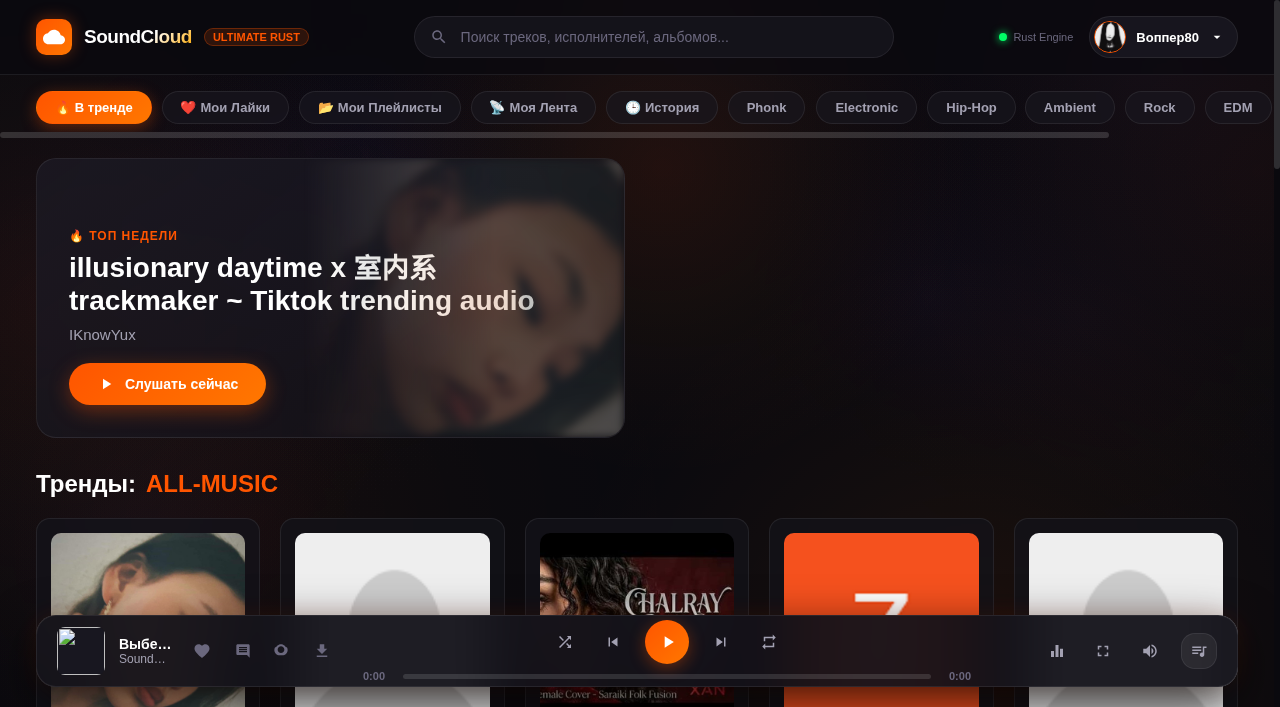
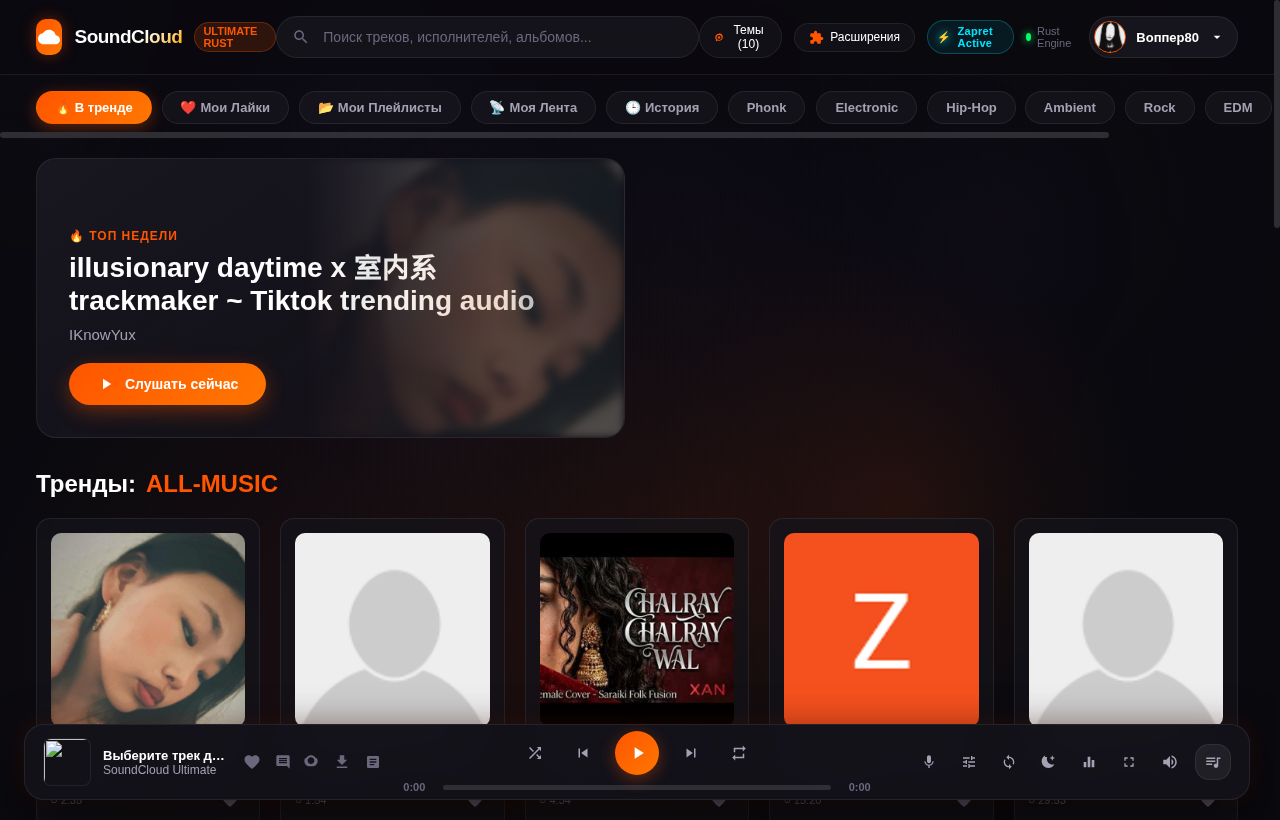
fix: improve player dock responsiveness, add new screenshots, and update gallery

diff --git a/desktop/frontend/index.html b/desktop/frontend/index.html
@@ -142,26 +142,28 @@
             <div class="dock-title" id="player-title">Выберите трек для воспроизведения</div>
             <div class="dock-artist" id="player-artist" style="cursor: pointer;">SoundCloud Ultimate</div>
           </div>
-          <!-- Real Like Button in Player -->
-          <button class="like-btn" id="dock-like-btn" title="Добавить в любимые (L)">
-            <svg viewBox="0 0 24 24"><path d="M12 21.35l-1.45-1.32C5.4 15.36 2 12.28 2 8.5 2 5.42 4.42 3 7.5 3c1.74 0 3.41.81 4.5 2.09C13.09 3.81 14.76 3 16.5 3 19.58 3 22 5.42 22 8.5c0 3.78-3.4 6.86-8.55 11.54L12 21.35z"/></svg>
-          </button>
-          <!-- Comments Button in Player -->
-          <button class="action-icon-btn" id="dock-comments-btn" title="Комментарии трека (C)">
-            <svg viewBox="0 0 24 24"><path d="M21.99 4c0-1.1-.89-2-1.99-2H4c-1.1 0-2 .9-2 2v12c0 1.1.9 2 2 2h14l4 4-.01-18zM18 14H6v-2h12v2zm0-3H6V9h12v2zm0-3H6V6h12v2z"/></svg>
-          </button>
-          <!-- Related Radio Button in Player -->
-          <button class="action-icon-btn" id="dock-radio-btn" title="Радио трека (Станция)">
-            <svg viewBox="0 0 24 24"><path d="M3.24 6.15C2.51 7.43 2 8.94 2 10.55c0 4.41 3.59 8 8 8 2.08 0 3.97-.79 5.4-2.1l-1.43-1.43C12.83 15.68 11.48 16.2 10 16.2c-3.12 0-5.65-2.53-5.65-5.65 0-1.19.38-2.3 1.03-3.21L3.24 6.15zM20.76 6.15l-2.14 1.19c.65.91 1.03 2.02 1.03 3.21 0 3.12-2.53 5.65-5.65 5.65-1.48 0-2.83-.52-3.97-1.18l-1.43 1.43C10.03 17.76 11.92 18.55 14 18.55c4.41 0 8-3.59 8-8 0-1.61-.51-3.12-1.24-4.4zM12 2C7.58 2 4 5.58 4 10s3.58 8 8 8 8-3.58 8-8-3.58-8-8-8zm0 13c-2.76 0-5-2.24-5-5s2.24-5 5-5 5 2.24 5 5-2.24 5-5 5z"/></svg>
-          </button>
-          <!-- Download Button in Player -->
-          <button class="download-btn" id="dock-download-btn" title="Скачать трек в MP3 (D)">
-            <svg viewBox="0 0 24 24"><path d="M19 9h-4V3H9v6H5l7 7 7-7zM5 18v2h14v-2H5z"/></svg>
-          </button>
-          <!-- Social Bento Card Button in Player -->
-          <button class="action-icon-btn" id="dock-card-btn" title="Создать карточку трека для соцсетей">
-            <svg viewBox="0 0 24 24"><path d="M19 3H5c-1.1 0-2 .9-2 2v14c0 1.1.9 2 2 2h14c1.1 0 2-.9 2-2V5c0-1.1-.9-2-2-2zm-5 14H7v-2h7v2zm3-4H7v-2h10v2zm0-4H7V7h10v2z"/></svg>
-          </button>
+          <div class="dock-left-actions">
+            <!-- Real Like Button in Player -->
+            <button class="like-btn" id="dock-like-btn" title="Добавить в любимые (L)">
+              <svg viewBox="0 0 24 24"><path d="M12 21.35l-1.45-1.32C5.4 15.36 2 12.28 2 8.5 2 5.42 4.42 3 7.5 3c1.74 0 3.41.81 4.5 2.09C13.09 3.81 14.76 3 16.5 3 19.58 3 22 5.42 22 8.5c0 3.78-3.4 6.86-8.55 11.54L12 21.35z"/></svg>
+            </button>
+            <!-- Comments Button in Player -->
+            <button class="action-icon-btn" id="dock-comments-btn" title="Комментарии трека (C)">
+              <svg viewBox="0 0 24 24"><path d="M21.99 4c0-1.1-.89-2-1.99-2H4c-1.1 0-2 .9-2 2v12c0 1.1.9 2 2 2h14l4 4-.01-18zM18 14H6v-2h12v2zm0-3H6V9h12v2zm0-3H6V6h12v2z"/></svg>
+            </button>
+            <!-- Related Radio Button in Player -->
+            <button class="action-icon-btn" id="dock-radio-btn" title="Радио трека (Станция)">
+              <svg viewBox="0 0 24 24"><path d="M3.24 6.15C2.51 7.43 2 8.94 2 10.55c0 4.41 3.59 8 8 8 2.08 0 3.97-.79 5.4-2.1l-1.43-1.43C12.83 15.68 11.48 16.2 10 16.2c-3.12 0-5.65-2.53-5.65-5.65 0-1.19.38-2.3 1.03-3.21L3.24 6.15zM20.76 6.15l-2.14 1.19c.65.91 1.03 2.02 1.03 3.21 0 3.12-2.53 5.65-5.65 5.65-1.48 0-2.83-.52-3.97-1.18l-1.43 1.43C10.03 17.76 11.92 18.55 14 18.55c4.41 0 8-3.59 8-8 0-1.61-.51-3.12-1.24-4.4zM12 2C7.58 2 4 5.58 4 10s3.58 8 8 8 8-3.58 8-8-3.58-8-8-8zm0 13c-2.76 0-5-2.24-5-5s2.24-5 5-5 5 2.24 5 5-2.24 5-5 5z"/></svg>
+            </button>
+            <!-- Download Button in Player -->
+            <button class="download-btn" id="dock-download-btn" title="Скачать трек в MP3 (D)">
+              <svg viewBox="0 0 24 24"><path d="M19 9h-4V3H9v6H5l7 7 7-7zM5 18v2h14v-2H5z"/></svg>
+            </button>
+            <!-- Social Bento Card Button in Player -->
+            <button class="action-icon-btn" id="dock-card-btn" title="Создать карточку трека для соцсетей">
+              <svg viewBox="0 0 24 24"><path d="M19 3H5c-1.1 0-2 .9-2 2v14c0 1.1.9 2 2 2h14c1.1 0 2-.9 2-2V5c0-1.1-.9-2-2-2zm-5 14H7v-2h7v2zm3-4H7v-2h10v2zm0-4H7V7h10v2z"/></svg>
+            </button>
+          </div>
         </div>
 
         <!-- Center: Controls & Scrubber -->

diff --git a/desktop/frontend/style.css b/desktop/frontend/style.css
@@ -458,9 +458,9 @@ body {
 
 .player-dock {
   pointer-events: auto;
-  width: calc(100% - 72px);
-  max-width: 1240px;
-  height: 72px;
+  width: calc(100% - 48px);
+  max-width: 1380px;
+  height: 76px;
   background: var(--surface-dock);
   backdrop-filter: blur(28px);
   -webkit-backdrop-filter: blur(28px);
@@ -470,7 +470,8 @@ body {
   display: flex;
   align-items: center;
   justify-content: space-between;
-  padding: 0 20px;
+  padding: 0 18px;
+  gap: 12px;
   transition: border-color 0.25s ease;
 }
 
@@ -482,27 +483,39 @@ body {
 .dock-left {
   display: flex;
   align-items: center;
-  gap: 14px;
-  width: 280px;
+  gap: 12px;
+  flex: 1;
+  max-width: 380px;
   min-width: 220px;
 }
 
 .dock-art {
   width: 48px;
   height: 48px;
-  border-radius: 8px;
+  border-radius: var(--radius-sm);
   object-fit: cover;
-  background: #181720;
+  background: var(--surface-dock);
+  border: 1px solid var(--border-subtle);
+  flex-shrink: 0;
 }
 
 .dock-info {
   display: flex;
   flex-direction: column;
   overflow: hidden;
+  flex: 1;
+  min-width: 110px;
+}
+
+.dock-left-actions {
+  display: flex;
+  align-items: center;
+  gap: 4px;
+  flex-shrink: 0;
 }
 
 .dock-title {
-  font-size: 14px;
+  font-size: 13px;
   font-weight: 700;
   color: #FFFFFF;
   white-space: nowrap;
@@ -524,8 +537,9 @@ body {
   flex-direction: column;
   align-items: center;
   gap: 6px;
-  flex: 1;
-  max-width: 620px;
+  flex: 1.4;
+  max-width: 540px;
+  min-width: 260px;
 }
 
 .dock-controls {
@@ -659,8 +673,21 @@ body {
   display: flex;
   align-items: center;
   justify-content: flex-end;
-  gap: 14px;
-  width: 220px;
+  gap: 8px;
+  flex: 1;
+  max-width: 380px;
+  min-width: 240px;
+}
+
+.dock-right .control-btn {
+  width: 32px;
+  height: 32px;
+  flex-shrink: 0;
+}
+
+.dock-right .control-btn svg {
+  width: 16px;
+  height: 16px;
 }
 
 /* Volume Container with Laser Centered Bento Popup */

diff --git a/README.md b/README.md
@@ -46,32 +46,39 @@
 ### 2. Центр встроенных расширений (Караоке, FX, Looper, Таймер сна, Карточки)
 ![Extensions Hub](screenshots/10_extensions_hub.png)
 
-### 3. Cyberpunk 2077 Тема & Midnight Synthwave Тема
+### 3. Синхронные тексты песен (Караоке LRCLIB) & A-B Looper в теме Nordic Frost
+<p align="center">
+  <img src="screenshots/15_lyrics_karaoke.png" width="48%" alt="Karaoke Synchronized Lyrics" />
+  &nbsp;&nbsp;
+  <img src="screenshots/16_nordic_frost_looper.png" width="48%" alt="Nordic Frost & A-B Looper" />
+</p>
+
+### 4. Cyberpunk 2077 Тема & Midnight Synthwave Тема
 <p align="center">
   <img src="screenshots/13_cyberpunk_neon_theme.png" width="48%" alt="Cyberpunk 2077 Theme" />
   &nbsp;&nbsp;
   <img src="screenshots/14_synthwave_theme.png" width="48%" alt="Synthwave Theme" />
 </p>
 
-### 4. Студия эффектов: 8D Audio (360° Вращение) & Скорость (Nightcore, Slowed)
+### 5. Студия эффектов: 8D Audio (360° Вращение) & Скорость (Nightcore, Slowed)
 ![Audio FX Studio](screenshots/11_audio_fx_8d_studio.png)
 
-### 5. Генератор неоновых Bento-карточек трека для Discord, Telegram и VK
+### 6. Генератор неоновых Bento-карточек трека для Discord, Telegram и VK
 ![Bento Social Track Card](screenshots/12_bento_social_track_card.png)
 
-### 6. Главный экран рекомендаций и чартов (Discover & Trending)
+### 7. Главный экран рекомендаций и чартов (Discover & Trending)
 ![Main Discover](screenshots/01_main_discover.png)
 
-### 7. Встроенный профиль артиста с треками и кнопкой подписки (In-App Artist Profile)
+### 8. Встроенный профиль артиста с треками и кнопкой подписки (In-App Artist Profile)
 ![Artist Profile](screenshots/02_in_app_artist_profile.png)
 
-### 8. Инспектор альбомов и плейлистов (Playlist Inspector)
+### 9. Инспектор альбомов и плейлистов (Playlist Inspector)
 ![Playlist Inspector](screenshots/03_in_app_playlist_inspector.png)
 
-### 9. Комментарии с таймкодами и публикацией в реальном времени (Track Comments)
+### 10. Комментарии с таймкодами и публикацией в реальном времени (Track Comments)
 ![Comments System](screenshots/04_in_app_comments_system.png)
 
-### 10. Лазерный Bento-ползунок громкости и Студийный эквалайзер
+### 11. Лазерный Bento-ползунок громкости и Студийный эквалайзер
 <p align="center">
   <img src="screenshots/06_bento_laser_volume.png" width="32%" alt="Volume Slider" />
   &nbsp;&nbsp;&nbsp;&nbsp;
